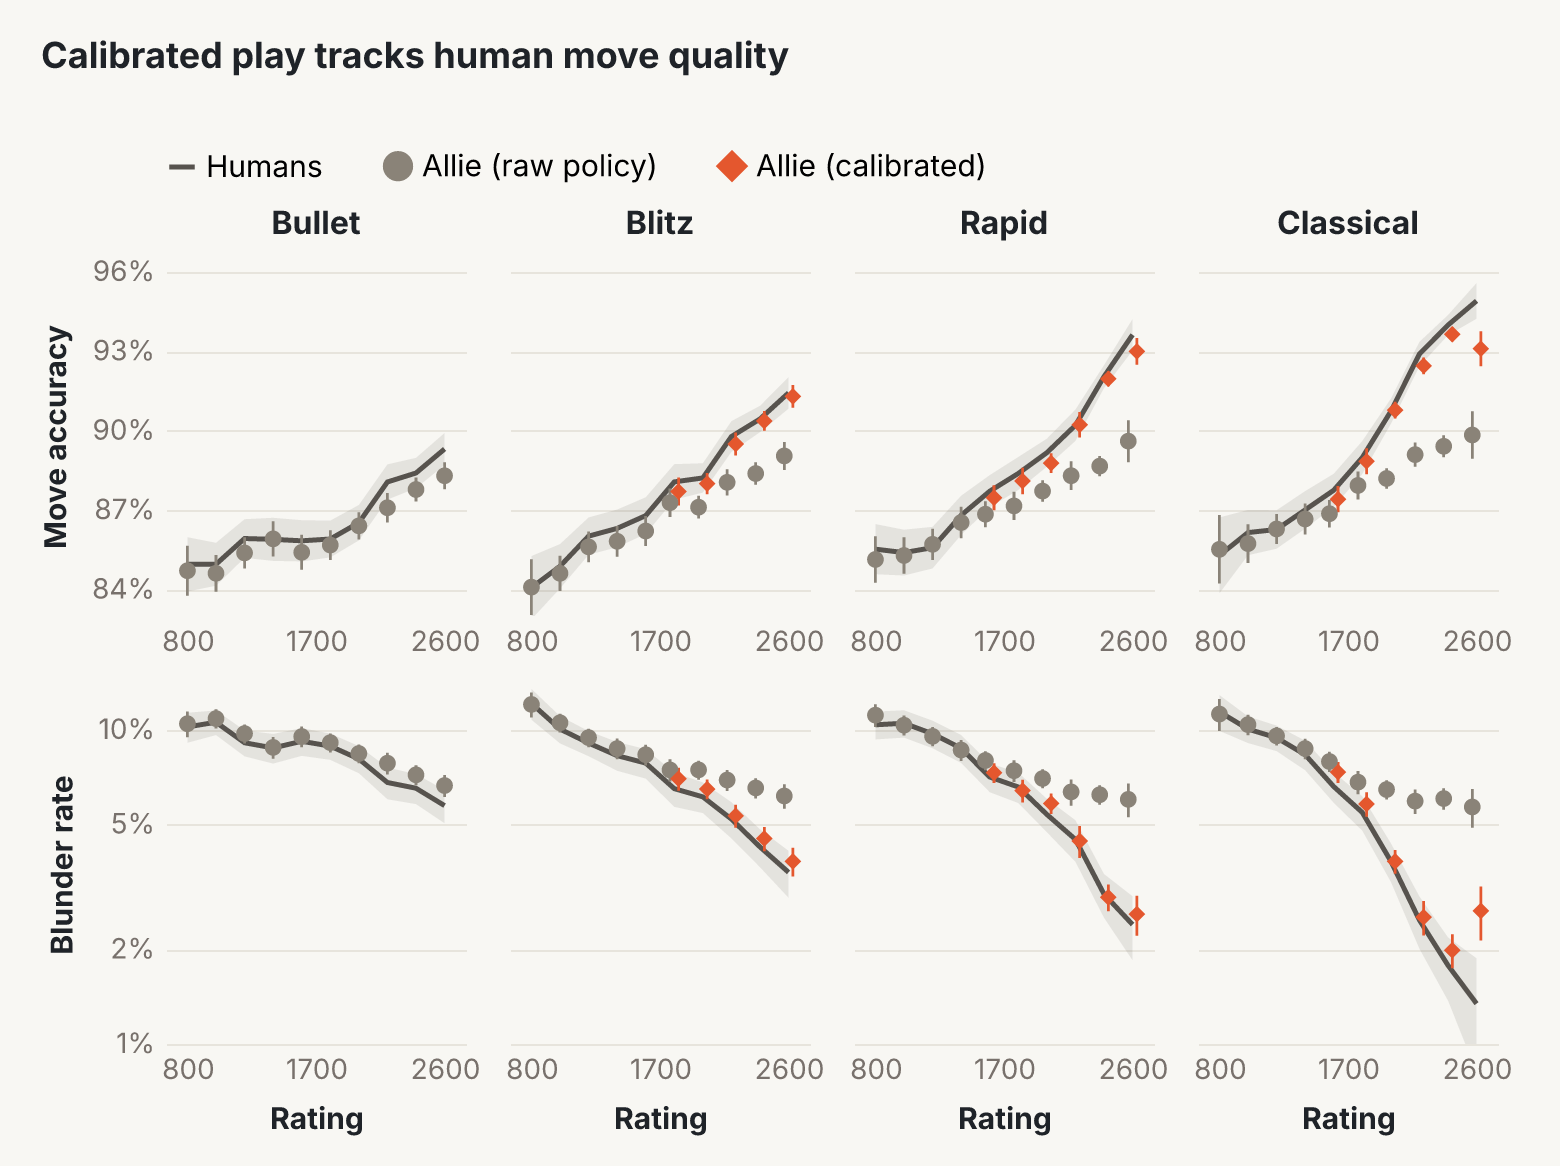
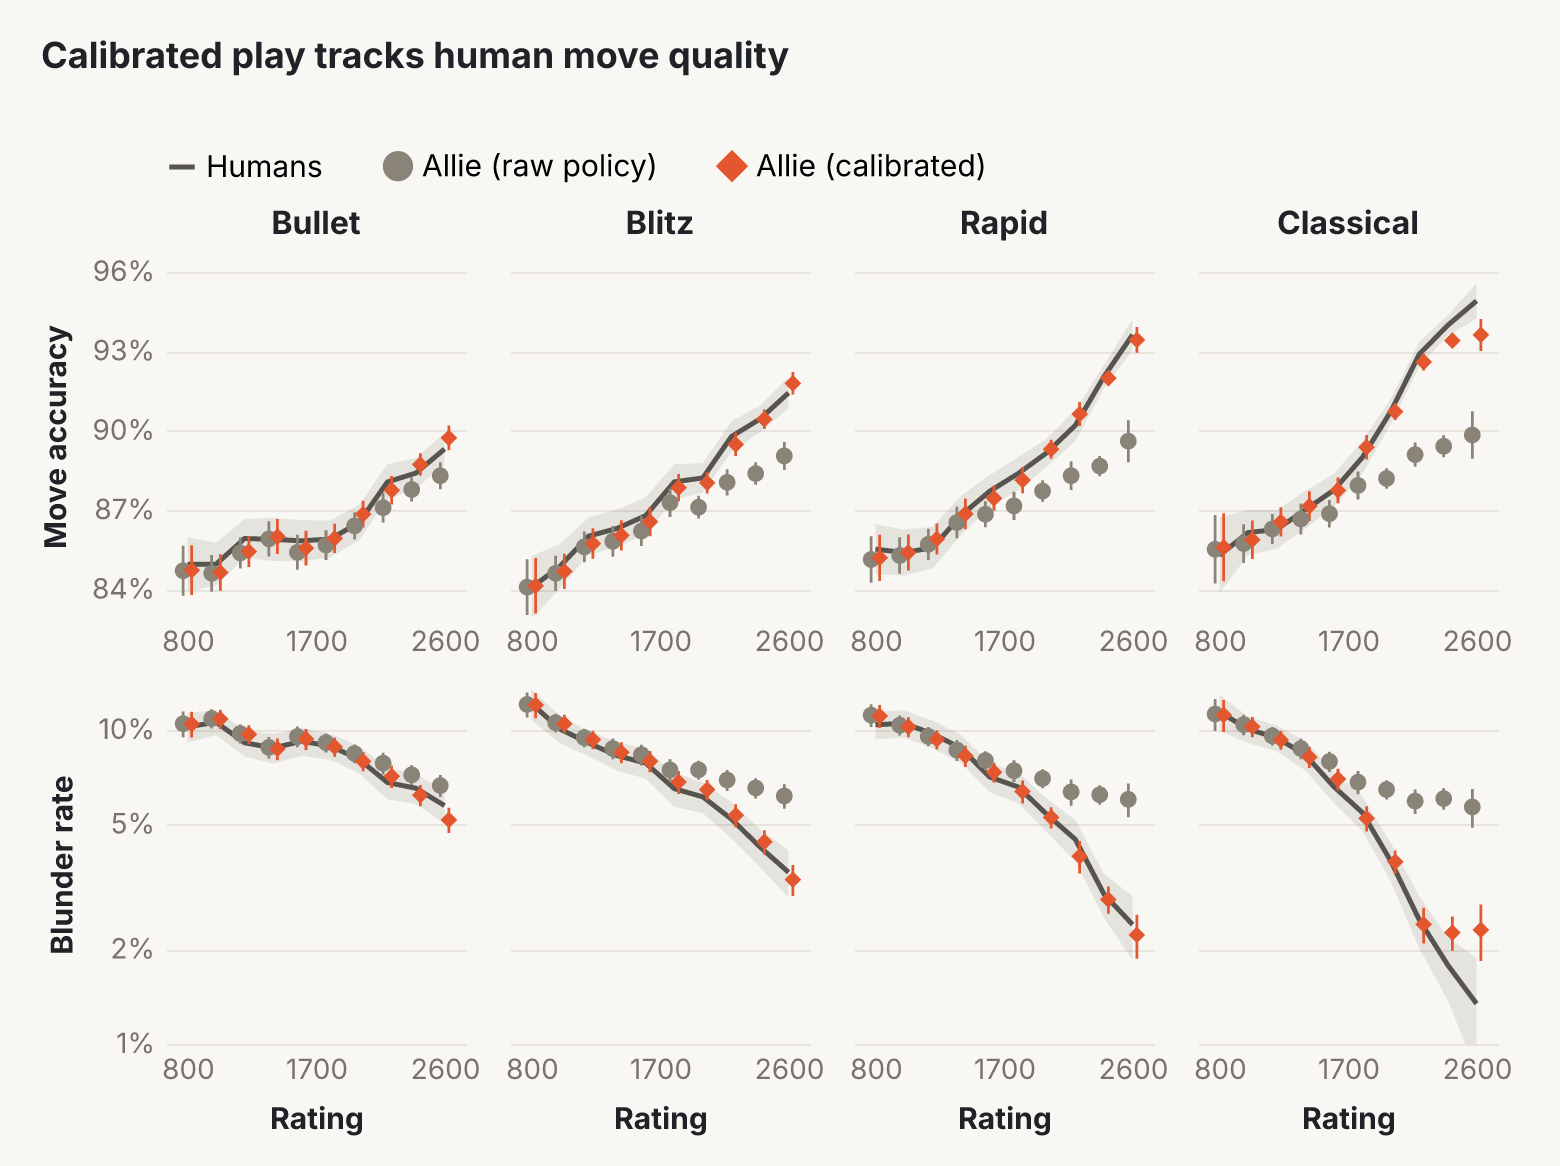
readme: calibrated play is one rule (search no larger than the drawn think time allows, a lean growing with rating and the position's human think time), its figure redrawn for it from calib_unified.py --params 0.297,3,0.625 --margin 0.2 --plot (results calib/plot-unified.json): slope against rating,
Claude-Session: https://claude.ai/code/session_018xmYCGmjSdX1zRhfrE8fLj

diff --git a/docs/make_figures.py b/docs/make_figures.py
@@ -817,10 +817,10 @@ def rating():
 def calibrated():
     """Move accuracy and blunder rate (Stockfish on every legal move) against rating, per time control: the humans'
     own moves (line, 95% band), and the expected values of the move distributions the Lichess bot plays at that
-    rating, sampled straight from the policy or calibrated as shipped (allie.lichess.calibration.CELLS: per
-    position, its search rungs mixed by the think times the bot draws), with 95% intervals clustered by game
-    (analysis/elo_strength/calib_plotdata.py). Calibrated points only where the bot searches."""
-    data = jload(X / "elo-strength/calib/plot-capped.json")
+    rating, sampled straight from the policy or calibrated as shipped (allie.lichess.calibration: per position,
+    its search rungs mixed by the think times the bot draws), with 95% intervals clustered by game
+    (analysis/elo_strength/calib_unified.py --params --plot)."""
+    data = jload(X / "elo-strength/calib/plot-unified.json")
     formats = ("bullet", "blitz", "rapid", "classical")
     who = ("Humans", "Allie (raw policy)", "Allie (calibrated)")
     pts, n = [], 0
@@ -829,10 +829,7 @@ def calibrated():
         if f not in formats or not 800 <= int(b) <= 2600:
             continue
         n += c["n"]
-        search = c["choice"] != "raw"
-        for w, src, dx in ((who[0], "human", 0), (who[1], "raw", -30 if search else 0), (who[2], "calibrated", 30)):  # fmt: skip
-            if src == "calibrated" and not search:
-                continue
+        for w, src, dx in ((who[0], "human", 0), (who[1], "raw", -30), (who[2], "calibrated", 30)):
             for metric, scale in (("accuracy", 1), ("blunder", 100)):
                 v, e = c[src][metric] * scale, 1.96 * c[src][metric + "_se"] * scale
                 pts.append({"f": f, "x": int(b) + dx, "s": w, "m": metric, "v": v, "lo": v - e, "hi": v + e})  # fmt: skip

diff --git a/README.md b/README.md
@@ -187,11 +187,11 @@ The [bot's guide](src/allie/lichess/README.md) covers bot accounts, settings and
 
 ### Calibrated play
 
-In its `calibrated` mode the bot plays close to the strength of humans of its rating (by default, yours) at the game's time control. Sampling straight from the model plays weaker than such humans, most at high ratings and in classical, so in each time control and 200-point rating band the bot either samples from the model or first searches a little, always sampling at temperature 1. It searches only where the searched moves also predict human moves better than the model alone, never in bullet, and never a larger search than the human-like think time it draws for the move (and its clock) allows. The [bot's guide](src/allie/lichess/README.md) covers the setting (search runs on the CPU backend and needs the `search` extra) and [calibration.py](src/allie/lichess/calibration.py) lists the bands.
+In its `calibrated` mode the bot plays close to the strength of humans of its rating (by default, yours) at the game's time control. Sampling straight from the model plays weaker than such humans, most at high ratings and in classical, so the bot first searches a little and then samples, at temperature 1, from the model's distribution leaned toward the moves the search rates highly. One rule covers every rating and time control: the search is never larger than the human-like think time the bot draws for the move (and its clock) allows, and the lean grows with the rating and with how long humans think in the position. Averaged over ratings and time controls, calibrated play predicts human moves no worse than the model alone. The [bot's guide](src/allie/lichess/README.md) covers the setting (search runs on the CPU backend and needs the `search` extra) and [calibration.py](src/allie/lichess/calibration.py) has the rule and its fit.
 
 ![Move accuracy and blunder rate against rating, by time control: humans' own moves, the bot sampling straight from the model, and calibrated play](docs/figures/calibrated.png)
 
-*Move accuracy and blunder rate (log scale), scored by Stockfish on every legal move, against rating, on 198,794 positions from July 2026 games. The line is the humans' own moves; the points are the expected values of Allie's move distribution at that rating, sampled straight from the model or calibrated as the bot plays it (shown where it searches; elsewhere, and in bullet, calibrated play is the raw policy). Bands and whiskers: 95% intervals.*
+*Move accuracy and blunder rate (log scale), scored by Stockfish on every legal move, against rating, on 198,794 positions from July 2026 games. The line is the humans' own moves; the points are the expected values of Allie's move distribution at that rating, sampled straight from the model or calibrated as the bot plays it. Bands and whiskers: 95% intervals.*
 
 ## Download and run the model
 
